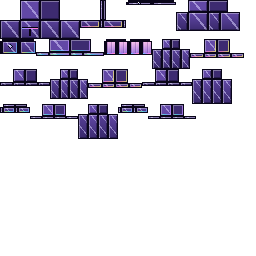
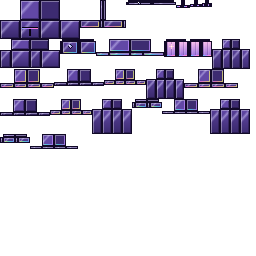
Aurora proto: knight v2 (single sheen, plume, gauntlets, tabard emblem)
Claude-Session: https://claude.ai/code/session_01B5Jfe1WzEeeuS2goi7x3z7

diff --git a/aurora/proto/knight.py b/aurora/proto/knight.py
@@ -16,7 +16,7 @@ def C(c, a=255): return tuple(int(max(0, min(255, round(v)))) for v in c[:3]) + 
 def cyc(t): return cycle(t, VIVID)
 RES = 2
 
-MAT = dict(out=(10, 6, 26), lo=(30, 20, 70), hi=(98, 72, 166), spec=(214, 206, 255),
+MAT = dict(out=(18, 10, 40), lo=(30, 20, 70), hi=(98, 72, 166), spec=(214, 206, 255),
            cloth_lo=(150, 110, 220), cloth_hi=(250, 190, 235), gem=((110, 235, 255), (255, 130, 220)))
 
 def plate(w, h, face, kind, seed):
@@ -35,9 +35,10 @@ def plate(w, h, face, kind, seed):
                 if j >= h - 2: c = cyc(i / w * 0.6)
             else:
                 c = mix(MAT['lo'], MAT['hi'], max(0, min(1, f)))
-                d = (i - j * 0.8) / max(1, w)                       # diagonal metal sheen
-                if 0.15 < d % 1.0 < 0.27 and face not in ('down',):
-                    c = mix(c, MAT['spec'], 0.55)
+                d = (i + j * 0.9) / max(1, w + h * 0.9)             # one soft diagonal sheen per face
+                k = max(0, 1 - abs(d - 0.32) / 0.09)
+                if face not in ('down',):
+                    c = mix(c, MAT['spec'], 0.5 * k)
             # bevel + outline (every plate edge gets the crisp dark line)
             if i == 0 or j == 0 or i == w - 1 or j == h - 1:
                 c = MAT['out']
@@ -92,23 +93,33 @@ def visor(im, rects):
     for i in range(2, fw - 2):                                 # aurora glow behind the eyes
         im.putpixel((x0 + i, y0 + int(fh * 0.38) + 1), C(cyc(i / fw * 0.4 + 0.1)))
 
+def star(im, rects):
+    x0, y0, fw, fh = rects['north']
+    cx, cy = x0 + fw // 2, y0 + fh // 3
+    for dx, dy in ((0, 0), (1, 0), (-1, 0), (0, 1), (0, -1), (2, 0), (-2, 0), (0, 2), (0, -2)):
+        im.putpixel((cx + dx, cy + dy), C(WHITE if (dx, dy) == (0, 0) else mix(WHITE, cyc(0.5), 0.5)))
+
 def build():
     A = Atlas()
     m = {}
     m['head'] = [cube(A, (-5, -9, -5), (10, 9.5, 10), extra=visor, seed=1),
                  cube(A, (-0.75, -12.5, -4.5), (1.5, 4, 10), 'trim', seed=2),              # crest
-                 cube(A, (-5.8, -7.5, -5.8), (11.6, 1.5, 1.2), 'trim', extra=gem_at(0.5, 0.5, 1), seed=3)]
-    m['body'] = [cube(A, (-5, -0.5, -3), (10, 9.5, 6), seed=4),
+                 cube(A, (-5.8, -7.5, -5.8), (11.6, 1.5, 1.2), 'trim', extra=gem_at(0.5, 0.5, 1), seed=3),
+                 cube(A, (-0.6, -11.5, 5), (1.2, 1.5, 2.5), 'cloth', seed=15),                       # plume tail
+                 cube(A, (-0.6, -10.5, 7), (1.2, 1.5, 2), 'cloth', seed=16),
+                 cube(A, (-0.6, -9.2, 8.5), (1.2, 2, 1.5), 'cloth', seed=17)]
+    m['body'] = [cube(A, (-4.8, -0.3, -2.8), (9.6, 9, 5.6), seed=4),
                  cube(A, (-4, 0.5, -4), (8, 6.5, 1.2), 'trim', extra=gem_at(0.5, 0.4, 2), seed=5),  # breastplate
                  cube(A, (-5.3, 8.5, -3.3), (10.6, 2, 6.6), 'trim', seed=6),                         # belt
-                 cube(A, (-2.5, 10.5, -3.6), (5, 7, 1), 'cloth', seed=7),                            # tabard
-                 cube(A, (-2.5, 10.5, 2.6), (5, 7, 1), 'cloth', seed=8)]
+                 cube(A, (-2.5, 10.5, -3.6), (5, 8, 1), 'cloth', extra=star, seed=7),                # tabard
+                 cube(A, (-2.5, 10.5, 2.6), (5, 8, 1), 'cloth', seed=8)]
     for side, sx in (('right_arm', 1), ('left_arm', -1)):
         def X(x0, w): return (x0, w) if sx == 1 else (-x0 - w + (0 if True else 0), w)
         a0, aw = X(-3.6, 4.6); p0, pw = X(-4.8, 6.6); q0, qw = X(-4.4, 5.8)
         m[side] = [cube(A, (a0 if sx == 1 else -1.0, -2.4, -2.6), (4.6, 10, 5.2), seed=9),
                    cube(A, (p0 if sx == 1 else -1.8, -4, -3.6), (6.6, 2.6, 7.2), 'trim', seed=10),   # pauldron
-                   cube(A, (q0 if sx == 1 else -1.4, -1.8, -3.2), (5.8, 2.2, 6.4), seed=11)]
+                   cube(A, (q0 if sx == 1 else -1.4, -1.8, -3.2), (5.8, 2.2, 6.4), seed=11),
+                   cube(A, (-3.7 if sx == 1 else -1.3, 6.5, -2.7), (5, 2.5, 5.4), 'trim', seed=18)]   # gauntlet cuff
     for side in ('right_leg', 'left_leg'):
         m[side] = [cube(A, (-2.6, -0.4, -2.6), (5.2, 12.6, 5.2), seed=12),
                    cube(A, (-2.9, 3.6, -3.6), (5.8, 3, 1.4), 'trim', seed=13),                    # knee
